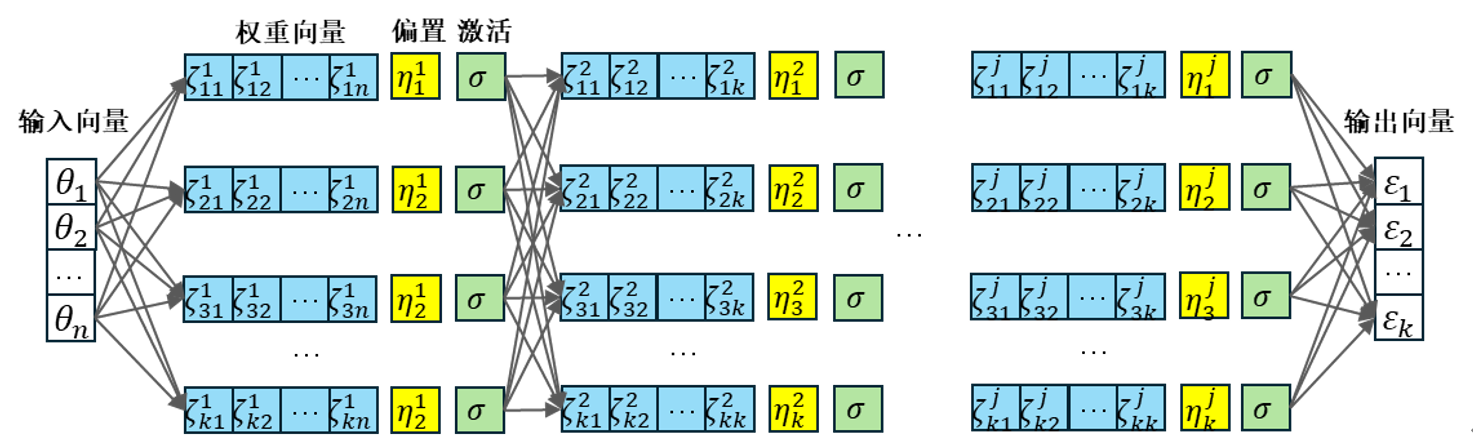
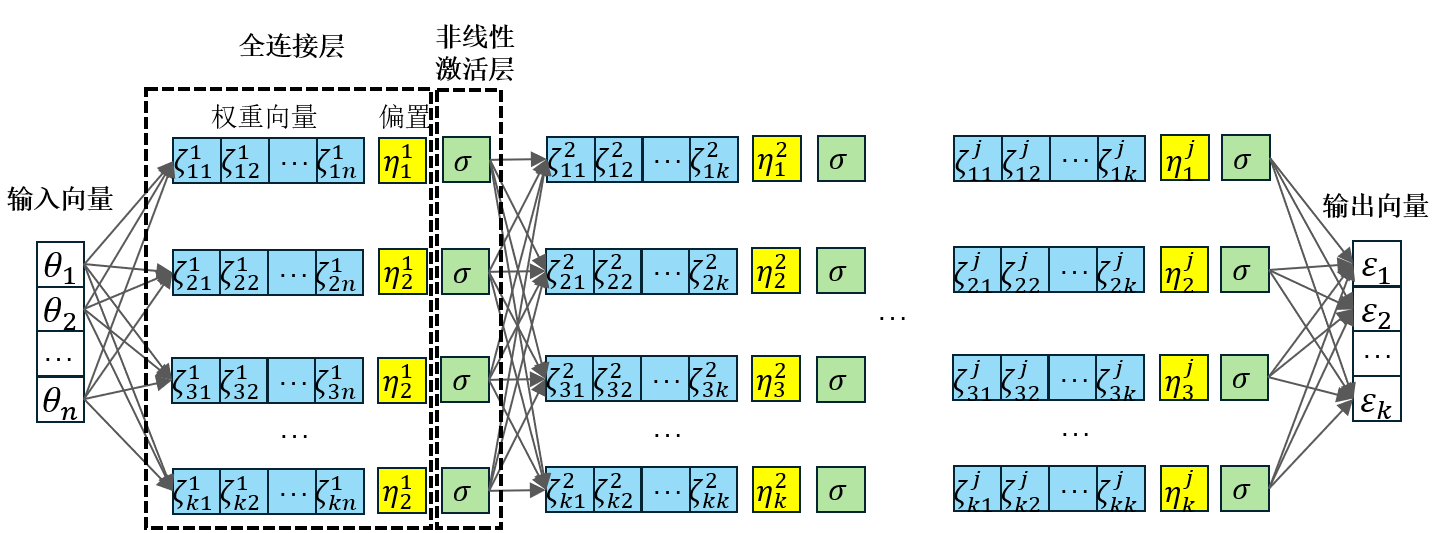
完善了一下全连接神经网络部分的内容

diff --git a/学习笔记/智能流体力学/机器学习.md b/学习笔记/智能流体力学/机器学习.md
@@ -10,11 +10,6 @@
    - 以**数据**为研究对象，是数据驱动的学科
    - 目的是对数据进行预测和分析
    - 是概率论、统计学、信息论、计算理论、最优化理论及计算机科学等多个领域的交叉学科
-3. 关于机器学习的分类：机器学习有三大分支：**监督学习**、**无监督学习**、**强化学习**。
-   - 监督学习是从标注数据中学习预测模型的机器学习问题，本质是**学习输入到输出的映射关系**。主要涉及分类和回归任务，
-   - 无监督学习是从无标注的数据中学习预测模型的机器学习问题，本质是**学习数据中的统计规律或潜在结构**。主要包含聚类任务
-   - 强化学习是智能体在与环境的连续互动中学习最优行为策略的机器学习问题，本质是**学习最优的序列决策**。
-   - 而深度学习本质上是特指使用**深度神经网络**完成机器学习任务的一种学习方法，可以被用在监督学习、无监督学习、强化学习。
 4. 关于机器学习的几大要素
    - 数据
      - 数据集的分类：
@@ -26,22 +21,38 @@
      - **特征空间**、**假设空间**、**特征空间**
      - 关于数据集与真实环境数据的独立同分布
    - 模型
-   - 策略
+   - 策略：指模型学习的准则，衡量模型的好坏、指导模型参数的更新的准则。
+      - 训练策略
+         - 正则化：使用如 L1 或 L2 正则化来限制模型复杂度，通过增额外的惩罚项或约束减少过拟合的风险:
+         - **L1 正则化(Lasso)**：在损失函数中加入权重的绝对值之和，使得模型趋向于产生稀疏的权重矩阵，即很多对目标的影响作用较小的权重值变成 0，进行了特征选择：$$L1_{loss}=\lambda\sum_{i}|w_i|$$
+         - **L2 正则化(Ridge)**：在损失函数中加入权重的平方和，使得权重倾向于减小，但是不至于减小为 0：$$L2_{loss}=\lambda\sum_{i}w_i^2$$
+         - **Dropout**:在训练过程中随机丢弃一部分神经元，即按照一定比例(如 0.5)将一些神经元的输出设为 0，防止神经元之间的共适应性
+        - 交叉验证：使用交叉验证来评估模型在新数据上的表现
+        - 早停：在训练过程中，一旦在验证集上的性能开始下降，即停止训练，以防过拟合
+        - 简化模型结构：减少模型的复杂性，例如减少层数或参数数量，以避免学习过于复杂的模式 
+      - 损失函数
    - 算法
-5. 关于模型性能的有关概念：
+5. 关于机器学习的分类：
+   - 按照范式分类
+      - **监督学习**：从标注数据中学习预测模型的机器学习问题，本质是**学习输入到输出的映射关系**。主要涉及分类和回归任务，
+      - **无监督学习**：从无标注的数据中学习预测模型的机器学习问题，本质是**学习数据中的统计规律或潜在结构**。主要包含聚类任务
+      - **强化学习**：智能体在与环境的连续互动中学习最优行为策略的机器学习问题，本质是**学习最优的序列决策**。
+   - 按照使用的模型分类
+      - **传统机器学习**：使用浅层数学模型。
+      - **深度学习**：使用多层（>=3）人工神经网络模型，可以被用在监督学习、无监督学习、强化学习。
+   - 按照学习方略分类：
+      - **主动学习**：模型主动选择对自己最有价值的样本申请标注。
+      - **迁移学习**：将从一个任务学到的知识迁移到另一个相关任务。
+      - **知识蒸馏**：在同一个任务中将知识从一个大模型蒸馏到小模型
+      - **集成学习**：通过独立训练多个不同的基础模型，再将它们的预测结果以某种方式组合起来，获得比任何单个模型都更高的精度、更好的鲁棒性和更可靠的不确定性估计。
+6. 关于模型性能的有关概念：
    1. 宏观概念：
       1. **泛化能力**：是指机器学习模型对未见过的新数据（即不包含在训练集中的数据）的处理能力，这意味着模型在训练集上学习到了正确的规律，这些规律在新数据上依然有用；
       2. **过拟合**：模型过度学习了训练数据中的特性，包括噪声和非代表性的特征，导致其泛化能力下降，使得其在训练集以外的数据上表现较差；
       3. **如何提高模型的泛化能力**：
       4. **数据增强**：通过增加训练数据的多样性，例如通过旋转、缩放、裁剪或颜色调整来扩展图像数据集
-      5. 正则化：使用如 L1 或 L2 正则化来限制模型复杂度，通过增额外的惩罚项或约束减少过拟合的风险:
-         1. **L1 正则化(Lasso)**：在损失函数中加入权重的绝对值之和，使得模型趋向于产生稀疏的权重矩阵，即很多对目标的影响作用较小的权重值变成 0，进行了特征选择：$$L1_{loss}=\lambda\sum_{i}|w_i|$$
-         2. **L2 正则化(Ridge)**：在损失函数中加入权重的平方和，使得权重倾向于减小，但是不至于减小为 0：$$L2_{loss}=\lambda\sum_{i}w_i^2$$
-         3. **Dropout**:在训练过程中随机丢弃一部分神经元，即按照一定比例(如 0.5)将一些神经元的输出设为 0，防止神经元之间的共适应性
-      6. 交叉验证：使用交叉验证来评估模型在新数据上的表现
-      7. 早停：在训练过程中，一旦在验证集上的性能开始下降，即停止训练，以防过拟合
-      8. 简化模型结构：减少模型的复杂性，例如减少层数或参数数量，以避免学习过于复杂的模式
-      9. 集成方法：如随机森林或梯度提升机等集成学习方法，可以通过组合多个模型来提高泛化能力
+      
+      5. 集成方法：如随机森林或梯度提升机等集成学习方法，可以通过组合多个模型来提高泛化能力
    2. 具体概念和性能图：
       1. 目标分类：
          1. 正类、负类：对于一个二分类模型来说，正类和负类分别就是这两个类别；对于一个多分类；对于一个多分类模型来说，通常有多少个类别，就有多少组正类和负类，正负类是相对单个类来说，比如总共有 1、2、3、4、5 类，当我研究 1 类时，1 是我感兴趣的类，故是正类，2、3、4、5 均是负类
@@ -73,7 +84,7 @@
          2. **P-R 曲线**(精确率-召回率曲线)：
             1. 衡量的是在不同分类阈值下，**精确度**和**召回率**的关系
             2. 曲线面积越大，表示模型在保持高精确度的同时也能保持较高的召回率
-6. 关于**模型性能**的提高方法：
+7. 关于**模型性能**的提高方法：
    1. 模型欠拟合：
       1. 从超参数角度
       2. 从模型结构角度
@@ -84,7 +95,7 @@
          1. 从模型结构角度
             1. 从数据处理角度：
             2. 从损失函数角度
-7. 关于正问题和反问题：
+8. 关于正问题和反问题：
    1. 正问题：已知系统的结构、参数、输入条件，求解系统的输出响应
    2. 反问题：已知系统的输出响应，反推系统的结构、参数、输入条件
 
@@ -185,41 +196,32 @@
    - 数据:处理向量形式的数据。
    - 模型：即前向传播模型
       - **灵感来源**：来自于对人脑神经元工作过程的数学建模，人脑的思维过程依靠的是约860亿个神经元的协同工作，其中每个神经元平均与7000~10000个神经元建立联系，共形成约150万亿个神经连接。具体来说，每个神经元通过树突接受来自其他神经元传递的不同强度的电信号，细胞核将所有信号进行整合处理，输出到轴突末端，与神经元自身的静息电位相加，如果最终的电信号高于输出阈值，就经由轴突末端向其他神经元传递，若低于阈值，则无法传递.![人脑神经元示意图](../../图片/人脑神经元.jpeg)
-      - **数学抽象**：我们可以将上述过程抽象化为如图所示的数学模型：![神经元数学模型](../../图片/神经元数学模型.png) 其中神经元接受的输入分别为$\theta_1$、$\theta_2$、… 、$\theta_n$，权重$\zeta_1$、$\zeta_2$、… 、$\zeta_n$用来模拟各个接受电信号的信号强弱，偏置 $\eta$ 用来模拟神经元自身的静息电位，最终的阈值判断本身具有非线性响应的特点，相应地使用一个非线性函数来完成，即激活函数$\sigma\left(\bullet\right)$，我们可以得到最终的单个神经元响应的数学表达式：$$f(\theta) = \sigma\left( \sum_{i=1}^{n} \left( \theta_i \zeta_i \right) + \eta \right)$$ 我们可以发现，这本质是一种输入到输出的非线性映射，权重和偏置负责仿射变换，只能做出线性相应，但是激活函数的施加给予了神经元拟合非线性函数的能力。我们将输入、偏置参数使用向量形式表示，那么神经元工作的本质就是输入向量列向量$\boldsymbol{\theta}$和权重行向量$\boldsymbol{\zeta}$点积再加上偏置参数$\eta$的过程，即：$$f(\boldsymbol{\theta}) = \sigma\left( \boldsymbol{\zeta} \cdot \boldsymbol{\theta} + \eta \right)$$ 综上，我们可以将每个神经元都看做是一个存储了权重行向量$\boldsymbol{\zeta}$、偏置参数$\eta$以及激活函数$\sigma\left(\bullet\right)$的计算单元。目前所有主流的ANN架构，如全连接、卷积、Transformer等，均以上述的神经元为网络最小单位，只不过输入数据的形状、具体的神经元连接方式或网络架构有所区别。
+      - **数学抽象**：我们可以将上述过程抽象化为如图所示的数学模型：![神经元数学模型](../../图片/神经元数学模型.png)  
+      其中神经元接受的输入分别为$\theta_1$、$\theta_2$、… 、$\theta_n$，权重$\zeta_1$、$\zeta_2$、… 、$\zeta_n$用来模拟各个接受电信号的信号强弱，偏置 $\eta$ 用来模拟神经元自身的静息电位，最终的阈值判断本身具有非线性响应的特点，相应地使用一个非线性函数来完成，即激活函数$\sigma\left(\bullet\right)$，我们可以得到最终的单个神经元响应的数学表达式：$$f(\theta) = \sigma\left( \sum_{i=1}^{n} \left( \theta_i \zeta_i \right) + \eta \right)$$ 我们可以发现，这本质是一种输入到输出的非线性映射，权重和偏置负责仿射变换，只能做出线性相应，但是激活函数的施加给予了神经元拟合非线性函数的能力。我们将输入、偏置参数使用向量形式表示，那么神经元工作的本质就是输入向量列向量$\boldsymbol{\theta}$和权重行向量$\boldsymbol{\zeta}$点积再加上偏置参数$\eta$的过程，即：$$f(\boldsymbol{\theta}) = \sigma\left( \boldsymbol{\zeta} \cdot \boldsymbol{\theta} + \eta \right)$$ 综上，我们可以将每个神经元都看做是一个存储了权重行向量$\boldsymbol{\zeta}$、偏置参数$\eta$以及激活函数$\sigma\left(\bullet\right)$的计算单元。目前所有主流的ANN架构，如全连接、卷积、Transformer等，均以上述的神经元为网络最小单位，只不过输入数据的形状、具体的神经元连接方式或网络架构有所区别。
       - **多神经元组合成前向传播通路**：基于对人脑神经元的数学抽象，我们可以使用多层、每层多个神经元搭建一个前向传播通路。如下图所示：![前向通路示意图](../../图片/前向通路.png) 模型每层的每个神经元均与前一层的所有神经元相连，这也是其名称得来的原因。其包含j层网络，每层网络包含k个神经元，输入是长度为n的列向量$\theta$，输出是长度为k的列向量ε，权重向量则是长度不一的行向量。网络主要由全连接层和非线性激活层组成：
          - **全连接层**：负责实现每个神经元的仿射变换部分，存放每个神经元的权重行向量$\boldsymbol{\zeta}$和偏置参数$\eta$，需要注意的是，为保证向量点积的正常进行，**每一层的输出列向量的长度为这一层的神经元个数，每层每个神经元的权重向量的长度都与输入列向量的长度相等**。
          - **非线性激活层**：负责实现每个神经元的非线性变换部分。
-            - 全连接层只能仿射变换拟合线性函数，即满足$f(ax+by)=af(x)+bf(y)$的函数，函数图像本身为直线，线性函数无论增加多少次仿射变换，都只能得到线性函数，所以我们需要对全连接层的输出进行非线性变换。我们将非线性激活层中的作用函数称为激活函数$\sigma\left(\bullet\right)$，其作用方式主要有两种：一种是**多层嵌套**：$output = \sigma(w2 * \sigma(w1 * x + b1) + b2)$,这种作用形式可以创造出单尖点的非线性函数，但是显然远远不够，在卷积核中运行内积算法时所以在全连接层中，会出现将这一层中所有神经元输出相加的过程，由于每个神经元的输出与最初的输入都是一个非线性关系，所有非线性函数在这一层**相互叠加**，即出现了 $\sigma(w1*x + b1) + \sigma(w2*x + b2)+……$ 的现象，而这样的相加则直接产生尖点无限多的复杂非线性函数，完全达到拟合所有非线性函数的效果，每个神经元的输出都要套上一个 $\sigma$ 激活函数，以最大程度提高其非线性函数的拟合度。如果非线性函数在正负无穷初梯度(可理解为导数)为 0 被称为**饱和函数**，如果同时梯度最大值较小，则在反向传播过程中会导致梯度消失，如果非线性激活函数是**非零均值函数**，即输出值的期望不为 0，则会导致学习过程中所有参数符号始终一致，使得神经网络不易收敛
+            - 全连接层只能仿射变换拟合线性函数，即满足$f(ax+by)=af(x)+bf(y)$的函数，函数图像本身为直线，线性函数无论增加多少次仿射变换，都只能得到线性函数，所以我们需要对全连接层的输出进行非线性变换。我们将非线性激活层中的作用函数称为激活函数$\sigma\left(\bullet\right)$，其作用方式主要有两种：一种是**多层嵌套**：$output = \sigma(w2 * \sigma(w1 * x + b1) + b2)$,这种作用形式可以创造出单尖点的非线性函数，但是显然远远不够，在卷积核中运行内积算法时所以在全连接层中，会出现将这一层中所有神经元输出相加的过程，由于每个神经元的输出与最初的输入都是一个非线性关系，所有非线性函数在这一层**相互叠加**，即出现了 $\sigma(w1*x + b1) + \sigma(w2*x + b2)+……$ 的现象，而这样的相加则直接产生尖点无限多的复杂非线性函数，完全达到拟合所有非线性函数的效果，每个神经元的输出都要套上一个 $\sigma$ 激活函数，以最大程度提高其非线性函数的拟合度。如果非线性函数在正负无穷初梯度(可理解为导数)为 0 被称为**饱和函数**，如果同时梯度最大值较小，则在反向传播过程中会导致梯度消失，如果非线性激活函数是**非零均值函数**，即输出值的期望不为 0，则会导致学习过程中所有参数符号始终一致，使得神经网络不易收敛。
             - **ReLU 函数(线性修正单元)**：
                - 公式: $$ReLU = max(0,x)$$
-               - 其中当输入为 x<=0 时，输出为 0，当输入为 x>0 时，输出为 x，这样对卷积后的特征图中的每一个特征值进行处理，
+               - 其中当输入为 x<=0 时，输出为 0，当输入为 x>0 时，输出为 x。
                - 优势：非饱和函数，输入值大于零时梯度恒为 1，解决回传梯度消失问题；同时函数简单，收敛较快，这一点也使得 Relu 函数称为卷积网络中使用最多的激活函数
                - 缺点：神经元死亡：当输入值小于 0 时，梯度为 0；非零均值函数：影响收敛效果，可使用归一化解决；梯度爆炸：没有上界，梯度随计算累积至超过计算机数值上限，可使用参数初始化解决
             - **LeakyReLU 函数**：
-               - $$
-                f(x) = \begin{cases}
-                x & \text{if} x > 0 \\
-                ax & \text{if} x \leq 0
-                \end{cases}
-                $$
+               - $$f(x) = \begin{cases} x & x > 0 \\ ax & x \leq 0 \end{cases}$$
                - 其中a是一个很小的数，但不变
                - 优势：具备ReLU的优点，，同时减轻神经元死亡的的问题
                - 缺点：a是一个超参数，不能通过学习改变，但是对训练结果相当重要，使得影响训练结果的不确定因素增加
            - **Prarametic ReLU 函数**
-              - $$
-                f(x) = \begin{cases}
-                x & \text{if} x > 0 \\
-                ax & \text{if} x \leq 0
-                \end{cases}
-                $$
-                - 其中a可以随着学习过程改变
-              - 优势：集合了LeakyReLU和ReLU的优势
-              - 缺点：增加模型复杂度与过拟合化风险
+               - $$f(x) = \begin{cases} x & \text{if } x > 0 \\ ax & \text{if } x \leq 0 \end{cases}$$
+               - 其中a可以随着学习过程改变
+               - 优势：集合了LeakyReLU和ReLU的优势
+               - 缺点：增加模型复杂度与过拟合化风险
            - **sigmoid 函数**：
-              - 公式：$$f(x)=\frac{1}{1+e^{-x}}$$
-                - 输出值在 0 到 1 之间
-              - 优势：可以直接表示概率，输出是一个平滑的概率分布
-              - 缺点：饱和函数：导致梯度消失；非零均值函数：导致不易收敛
+               - 公式：$$f(x)=\frac{1}{1+e^{-x}}$$
+               - 输出值在 0 到 1 之间
+               - 优势：可以直接表示概率，输出是一个平滑的概率分布
+               - 缺点：饱和函数：导致梯度消失；非零均值函数：导致不易收敛
            - **SiLU 函数**：
               - 公式：$$SiLU=x*\frac{1}{1+e^{-x}}$$
               - 将特征值和经过 sigmoid 函数之后得到的值相乘来引入非线性，非常类似**特征重塑**操作，给与激活函数动态调整特征值所占权重的能力
@@ -227,52 +229,53 @@
               - 公式：$$f(x)=\frac{e^x - e^{-x}}{e^x + e^{-x}}$$
               - 优点：零均值函数：输出值以 0 为中心，使得权重更新时不会偏向任一方，梯度有正有负，有利于改善梯度流
               - 缺点：饱和函数：当输入值的绝对值非常大时，仍然有梯度消失问题
-   - 策略：即损失函数，衡量预测值和真实值之间差异情况。
+   - **策略**：即损失函数
+      - 模型的优化需要有明确的方向，而损失函数就是负责使得模型朝着输出值的分布越来越接近真值的分布，损失函数的值反映了模型当前的输出值和真值之间的差距。具体来说，损失函数是关于网络输出向量$\boldsymbol{\varepsilon}$、真值向量$\boldsymbol{\varepsilon_t}$的函数：$$\mathcal{J} = f(\boldsymbol{\varepsilon}, \boldsymbol{\varepsilon_t})$$
       - **最小绝对误差(MAE损失)(L1 损失):**
-         - 公式：$$L1=\sum_{i=1}^n |Y_i-\hat{Y_i}|$$
+         - 公式：$$L1=\frac{1}{n}\sum_{i=1}^n |\varepsilon_i-\varepsilon_{ti}|$$
+         - 其中$\varepsilon_i$表示模型的输出值，$\varepsilon_ti$表示模型的真值，n表示样本数。
          - 特点：对所有大小的误差都给予相同的权重，对异常值不敏感
       - **均方误差(MSE 损失函数)(L2 损失)：**
          - 通常用于回归问题，或者一些需要预测连续值的问题，如图像重建和超分辨率问题
-         - 公式：$$MSE=\frac{1}{n}\sum\limits_{i=1}^n(Y_i-\hat{Y_i})^2$$
+         - 公式：$$MSE=\frac{1}{n}\sum\limits_{i=1}^n(\varepsilon_i-\varepsilon_{ti})^2$$
          - 特点：因为对损失值加平方，所以对更大的误差赋予更大的损失，意味着模型更加倾向于避免大的误差，对异常值更敏感
       - **交叉熵损失（CE 损失函数）**
          - 此损失函数主要用于目标分类问题，拟合的目标结果在于让交叉熵损失函数取得最小值，即让样本属于其真实类的概率最大，在二分类和多分类问题中，使用 one-hot 编码来表示每个样本的真实标签，例如，如果有一个四分类问题，类别为 {A, B, C, D}，那么类别 A 可以被编码为 [1, 0, 0, 0]，类别 B 可以被编码为 [0, 1, 0, 0]，以此类推
          - **二分类问题：**
-            - $$CE=-\frac{1}{n}\sum\limits_{i=1}^{n}[Y_iln(\hat{Y_i})+(1-Y_i)ln(1-\hat{Y_i})]$$
-            - $Y_i$ 表示第 i 个样品是不是于这个类，是为 1，不是为 0，$\hat{Y_i}$ 表示属于这个类的预测概率
+            - $$CE=-\frac{1}{n}\sum\limits_{i=1}^{n}[\varepsilon_{ti}ln(\varepsilon_i)+(1-\varepsilon_{ti})ln(1-\varepsilon_i)]$$
+            - $\varepsilon_{ti}$ 表示第 i 个样品是不是于这个类，是为 1，不是为 0，$\varepsilon_{i}$ 表示属于这个类的预测概率
             - 二元交叉熵函数前通常跟 sigmoid 函数，来将类别分数转化为 0~1 之间的概率
             - 二元交叉熵函数同样能用来处理多类别分类问题，即，将一个 N 类分类问题视作 N 个二分类问题，在每一个类别的判断中都使用一个二元交叉熵损失函数，这样每个类别的概率互不影响，意味着可以做对一个目标的多分类问题，即，一个目标可以同时属于很多个类别。
          - **多分类问题：**
-            - $$CE=-\frac{1}{n}\sum_{i=1}^{n}\sum_{j=1}^{K}Y_{ij}\ln(\hat{Y_{ij}})$$
-            - $Y_{ij}$ 是第 i 个样品标签中属于第 j 类的编码，是第 j 类就是 1，不是就是 0；$\hat{Y_{ij}}$ 是第 i 个样品的第 j 类的预测概率，由**Softmax 函数输出的 Z 向量**(牛逼)得出，K 是类别数量，n 是样本数
+            - $$CE=-\frac{1}{n}\sum_{i=1}^{n}\sum_{j=1}^{K}\varepsilon_{tij}\ln(\varepsilon_{ij})$$
+            - $\varepsilon_{tij}$ 是第 i 个样品标签中属于第 j 类的编码，是第 j 类就是 1，不是就是 0；$\varepsilon_{ij}$ 是第 i 个样品的第 j 类的预测概率，由**Softmax 函数输出的 Z 向量**(牛逼)得出，K 是类别数量，n 是样本数
             - 注意这里的样本数 n 表示，对于输入层输入的是很多张图片、甚至是不同类图片的情况（一个 batch），最后的损失值是将的所有图片的损失值进行求和
             - 注意：多元交叉熵损失函数只适用于对一个类别进行预测，他假设每个样本或检测框只属于一个类别。原因是多元交叉熵函数之前通常会搭配 softmax 函数，这意味着一个类别的分数会影响到其他所有类别的分数，所以各个类别的判断之间并不互相独立，所以不能用来对一个目标做多类别预测。
-   - 算法：即反向传播算法和梯度下降算法
+   - **算法**：即反向传播算法和梯度下降算法 
+      - 在得到损失值之后，模型确定了优化的方向，接下来需要对所有网络可更新的参数来具体执行这样的优化，从而使得损失函数的值下降，如此循环，直到模型的输出与真值足够接近。具体来说，模型的损失函数又可以看成是输入向量、权重向量、偏置参数、真值向量的函数：$$\mathcal{J} = f(\boldsymbol{\theta},\boldsymbol{\zeta},\eta,\boldsymbol{\varepsilon_t})$$ 显然，如果想使得损失值减小，只能从权重向量和偏置参数着手，这里可以把损失函数看做是关于$\boldsymbol{\zeta}$、$\eta$的多元函数，对于多元函数来说，负梯度方向是函数值减小最快的方向，为了让损失函数值以最快速度下降，应当让所有权重和偏置参数沿着各自负梯度方向减小。 所以接下来的工作就变成首先获取损失函数关于每个参数的梯度值（即反向传播），然后使用这个梯度值配合一定的算法对每个参数进行更新（梯度下降）。为了便于理解反向传播和梯度下降的具体过程，这里将钱箱传播的模型进行简化，如图所示：![简化全连接](../../图片/简化全连接.png)  
+      其输入是单个变量$\theta$，具有两层、每层一个神经元。
       - 反向传播算法：(BP 算法)
-         - 概念：神经网络中加速计算参数梯度值的方法
          - 一般的计算各个参数梯度值的方法：
-            - **前向传播过程**$$x >>> (w_1,b_1)>>>\sigma_1>>>y_1=\sigma_1(w_1x+b_1)>>>(w_2,b_2)>>>\sigma_2>>>y_2=\sigma_2(w_2y_1+b_2)>>>L(y_2,y_{gt})$$
-               - 其中，$(w_1,b_1)$、$(w_2,b_2)$ 分别是前后两次线性运算的参数，$\sigma_1$、$\sigma_2$ 为激活函数，最后损失函数$L(y_2,y_{gt})$ 中 $y_{gt}$ 是真实值，$y$是计算值
-            - **自动微分机制(Autograd)**：将损失函数$L(y_2,y_{gt})$ 当中可能出现的输出量关于输入量的导数转化为关于权重参数和偏置参数的函数，为反向传播做准备。
-               - $$\frac{∂y_2}{∂x}=\frac{∂y_2}{∂y_1}\frac{∂y_1}{∂x}=\sigma_1'\sigma_2'{w_1}{w_2}$$ 
-               - $$\frac{∂^{2}y_2}{∂x^{2}}=\frac{∂(\frac{∂y_2}{∂x})}{∂x}=\frac{∂(\sigma_1'\sigma_2'{w_1}{w_2})}{∂x}={w_1}{w_2}\frac{∂(\sigma_1'\sigma_2')}{∂x}={w_1}{w_2}[\frac{∂(\sigma_2')}{∂x}\sigma_1'+\frac{∂(\sigma_1')}{∂x}\sigma_2']={w_1}{w_2}[(\sigma_2''{w_2}\sigma_1'{w_1})\sigma_1'+(\sigma_1''{w_1})\sigma_2']={w_1}^2{w_2}^2{\sigma_1'}^2{\sigma_2''}+{w_1}^2{w_2}{\sigma_1''}{\sigma_2'}$$
-               - $\frac{∂^{3}y_2}{∂x^{3}}$ 等更高阶导数类似
+            - **前向传播过程**$$\theta >>> (\zeta_1,\eta_1)>>>\sigma_1>>>\varepsilon_1=\sigma_1(\zeta_1\theta+\eta_1)>>>(\zeta_2,\eta_2)>>>\sigma_2>>>\varepsilon_2=\sigma_2(\zeta_2\varepsilon_1+\eta_2)>>>\mathcal{J} = f(\varepsilon_2, \varepsilon_t)$$
+               - 其中，$(\zeta_1,\eta_1)$、$(\zeta_2,\eta_2)$ 分别是前后两次线性运算的参数，$\sigma_1$、$\sigma_2$ 为激活函数，最后损失函数$\mathcal{J}(\varepsilon_2, \varepsilon_t)$ 中 $\varepsilon_t$ 是真实值，$\varepsilon_2$是模型输出值。
             - **反向传播过程**：本质是计算损失函数相对于网络的各个权重参数、偏置参数的偏导数。
                - $$\frac{∂L}{∂b_1}=\frac{∂L}{∂y_2}\frac{∂y_2}{∂y_1}\frac{∂y_1}{∂b_1}=\frac{∂L}{∂y_2}w_2<<<\frac{∂L}{∂w_1}=\frac{∂L}{∂y_2}\frac{∂y_2}{∂y_1}\frac{∂y_1}
                {∂w_1}=\frac{∂L}{∂y_2}w_2x<<<\frac{∂L}{∂b_2}=\frac{∂L}{∂y_2}\frac{∂y_2}{∂b_2}=\frac{∂L}{∂y_2}<<<\frac{∂L}{∂w_2}=\frac{∂L}{∂y_2}\frac{∂y_2}{∂w_2}=\frac{∂L}{∂y_2}y_1$$
                - 其中每一步需要的量都由前向传播过程已知或由上一步已知
-          3. 计算机中模块化加速计算梯度值方法
+         - 计算机中模块化加速计算梯度值方法
             - **前向传播过程**$$(x,w_1)>>>u_1=w_1x>>>(u_1,b_1)>>>y_1=u_1+b_1>>>(w_2,y_1)>>>u_2=w_2y_1>>>(u_2,b_2)>>y_2=u_2+b_2>>>L(y_2,y_{gt})$$
                - 其中与一般计算不同的是这其中引入了单元运算概念，即将所有复杂运算拆解成一个个的简单、步骤高度重合、只是数值发生改变的运算，这样就可以将正向传播和反向传播过程用程序来实现
-            - **反向传播过程**$$\frac{∂L}{∂w_1}=\frac{∂L}{∂y_2}\frac{∂y_2}{∂u_2}\frac{∂u_2}{∂y_1}\frac{∂y_1}{∂u_1}\frac{∂u_1}{∂w_1}=\frac{∂L}{∂y_2}w_2x<<<\frac{∂L}{∂b_1}=\frac{∂L}{∂y_2}\frac{∂y_2}{∂u_2}\frac{∂u_2}{∂y_1}\frac{∂y_1}{∂b_1}=\frac{∂L}{∂y_2}w_2<<<\frac{∂L}{∂w_2}=\frac{∂L}{∂y_2}\frac{∂y_2}{∂u_2}\frac{∂u_2}{∂w_2}=\frac{∂L}{∂y_2}y_1<<<\frac{∂L}{∂b_2}=\frac{∂L}{∂y_2}\frac{∂y_2}{∂b_2}=\frac{∂L}{∂y_2}$$
-               - 其中每一步需要的量都由前向传播过程已知或由上一步已知
-            - 计算机模块化和计算方法深度学习框架相配合，在每个单元运算中均有定义的正向传播和反向传播函数，给每个神经元之间创造了联系通路，神经元拥有了生命。
+            - **反向传播过程** $$\frac{∂L}{∂w_1}=\frac{∂L}{∂y_2}\frac{∂y_2}{∂u_2}\frac{∂u_2}{∂y_1}\frac{∂y_1}{∂u_1}\frac{∂u_1}{∂w_1}=\frac{∂L}{∂y_2}w_2x<<<\frac{∂L}{∂b_1}=\frac{∂L}{∂y_2}\frac{∂y_2}{∂u_2}\frac{∂u_2}{∂y_1}\frac{∂y_1}{∂b_1}=\frac{∂L}{∂y_2}w_2<<<\frac{∂L}{∂w_2}=\frac{∂L}{∂y_2}\frac{∂y_2}{∂u_2}\frac{∂u_2}{∂w_2}=\frac{∂L}{∂y_2}y_1<<<\frac{∂L}{∂b_2}=\frac{∂L}{∂y_2}\frac{∂y_2}{∂b_2}=\frac{∂L}{∂y_2}$$
+              - 其中每一步需要的量都由前向传播过程已知或由上一步已知
+              - 计算机模块化和计算方法深度学习框架相配合，在每个单元运算中均有定义的正向传播和反向传播函数，给每个神经元之间创造了联系通路，神经元拥有了生命。
+         - **自动微分机制(Autograd)**：将损失函数$L(y_2,y_{gt})$ 当中可能出现的输出量关于输入量的导数转化为关于权重参数和偏置参数的函数，为反向传播做准备。
+            - $$\frac{∂y_2}{∂x}=\frac{∂y_2}{∂y_1}\frac{∂y_1}{∂x}=\sigma_1'\sigma_2'{w_1}{w_2}$$ 
+            - $$\frac{∂^{2}y_2}{∂x^{2}}=\frac{∂(\frac{∂y_2}{∂x})}{∂x}=\frac{∂(\sigma_1'\sigma_2'{w_1}{w_2})}{∂x}={w_1}{w_2}\frac{∂(\sigma_1'\sigma_2')}{∂x}={w_1}{w_2}[\frac{∂(\sigma_2')}{∂x}\sigma_1'+\frac{∂(\sigma_1')}{∂x}\sigma_2']={w_1}{w_2}[(\sigma_2''{w_2}\sigma_1'{w_1})\sigma_1'+(\sigma_1''{w_1})\sigma_2']={w_1}^2{w_2}^2{\sigma_1'}^2{\sigma_2''}+{w_1}^2{w_2}{\sigma_1''}{\sigma_2'}$$
+            - $\frac{∂^{3}y_2}{∂x^{3}}$ 等更高阶导数类似
       - 梯度下降算法：
-         - 为什么会需要这种算法：
-            - 模型训练的过程其实就是网络自行拟合原函数的过程，用众多个样本点作为实际值，每一层卷积核中所进行的仿射变换加上非线性激活层的非线性变换，到最后的全连接层时就会出来一个非线性拟合函数，用损失函数通过计算当前拟合的值和每个样本点的实际值之差等手段，衡量当前所拟合函数的质量。神经网络的目的，就是在原始数据集的每一轮训练后不断改变每个卷积核中权重和偏置这两个参数，得到一组最优的参数使得最后的损失函数的值最小，即拟合的效果最佳，而梯度下降算法就是让权重和偏置参数能够朝着让损失函数值变小的方向改变的一种手段。
+         - 
          - 梯度下降算法：
             - 概念：
-               - 对于非线性函数 $y=f(x,w,b)$ ,其中 w、b 分别是权重和偏置，在此处共同影响函数走势，神经网络的目的就是通过学习获得一组最优的 w、b 值，使得损失函数取得最小值，而对于损失函数 $L(w,b)$来说，其有两个自变量 w，b，是一个空间中的二元函数，对于多元函数来说，**负梯度方向**是函数值减小最快的方向，为了让损失函数值以最快速度下降，应当让 w、b 沿着各自负梯度方向减小，所以每次得出损失函数之后应当按照负梯度方向更新 w、b,其中二元函数的梯度向量可以表示为：$∇L = [\frac{∂L}{∂w}, \frac{∂L}{∂b}]$ ，$L()$ 关于 w、b 的的梯度分别是 $\frac{∂L}{∂w}$、$\frac{∂L}{∂b}$ ,以下均用 $g$ 表示。
             - 公式：
                - $$w = w - α * g$$
                - $$b = b - α * g$$
@@ -311,7 +314,7 @@
                             - $r$ ：同样是二阶矩，代表了梯度随时间积累的量
                           - 优点：其中相较于 Adagrad 算法优势体现在加入了可以手动调节的$\rho$，通过不断减小过去数据在总二阶矩中所占权重，可以解决后期二阶矩不断增大导致的学习率过小的问题
                           - 不足：$r$ 初值过小，
-                    3. 同时从梯度角度和学习率角度：
+                    1. 同时从梯度角度和学习率角度：
                        - **Adam 算法**
                          - 公式：
                            - $$s=\rho _1s+(1-\rho _1)g$$
@@ -323,14 +326,12 @@
                            - $s$ 是自适应动量，或者说是一阶矩，继承自动量随机梯度下降算法；$r$ 是引入的梯度随时间积累的量，即二阶矩继承自 Adagrad 算法；$\rho_1$、$\rho_2$ 是衰减率，继承自 RMSprop 算法；$\hat s$、$\hat r$ 分别是 $s$ 和$r$ 随迭代过程的修正值
                            - $\rho_1$、$\rho_2$ 衰减率一般设置为 0.9 或 0.99，这表明二阶矩中越新的数据所占权重越大，因为新数据权重始终为(1-$\rho$),但是所有的老数据的权重随数据更新在逐渐减小
                            - 之所以创建$\hat s$、$\hat r$,是因为$s$、$r$ 初值较小，接近于 0，不能使用，但是后续两值会回归正常，使用公式则可以将初期的$s$、$r$ 放大，之后随着数据的更新，迭代的进行，分母中的$1-{\rho}^t$ 将逐渐接近于 1，即，后期$\hat s$、$\hat r$ 将逐渐等于于$s$、$r$，而此时$s$、$r$的值也随着一阶、二阶矩的积累过程回归正常。
-        
 2. **CNN**卷积网络
-   - 数据：
    - 模型 ：**输入层** >>> **卷积层** >>>**批量归一化层**>>>**非线性激活层**>>> **池化层** >>>**展平层** >>**全连接层**
-     1. **输入层** ：输入四维张量，即(**批次数，通道数，图像高度，图像宽度**)(灰度只有一个通道，RGB 图有三个通道)
+      1. **输入层** ：输入四维张量，即(**批次数，通道数，图像高度，图像宽度**)(灰度只有一个通道，RGB 图有三个通道)
         - 输入层的图片大小必须统一，例如 yolov5 默认的输入图片大小是 640*640，如果遇到大小不相同的情况，则会先按照长宽比进行缩放，使得短边长度等于 640，然后再对图片空白区域进行填充，一般填充黑色，这中处理方案的好处在于保持原始图片的长宽比，不会使得图像被拉伸变形
         - 输入层通常是一个 batch，即一个批次，包含很多张图片甚至很多个类别的图片，但是这些图片是**分别、独立**进入后面的所有层，而不是同时进入，所有图片的汇总发生在损失函数计算时的每个图片损失值的求和
-     2. **卷积层** ：目的是对图像各个区域进行特征提取，最后得到一个或多个**特征图**
+      2. **卷积层** ：目的是对图像各个区域进行特征提取，最后得到一个或多个**特征图**
         - 对于输入层的图像，利用**卷积核**滑动提取特征，且每个通道分别进卷积核，每个区域最后只对应一个特征值，卷积核的每次整体的卷积操作都对应着一个神经元，将一次卷积的所有仿射变换相加再输出就对应了一个神经元的操作，故**卷积核工作了多少次就对应了多少个神经元**，但是由于卷积层在神经元之间**共享参数**，所以一个卷积核代表了很多个神经元。
         - 卷积核:
           1. 卷积核主要依赖**权重矩阵**和**偏置项**工作
@@ -352,23 +353,19 @@
           - FH:卷积核的长度或宽度
           - P:边缘厚度
           - S:步长
-     3. **批量归一化层(BatchNorm)**：目的是使得每一层的输入都有一个相似分布的输入，防止一次正向传播和反向传播之后，参数更新使得靠近输出层的区域神经元的输入因为之前所有神经元所有输出抖动的累积发生剧烈抖动，导致损失函数难以收敛
+      1. **批量归一化层(BatchNorm)**：目的是使得每一层的输入都有一个相似分布的输入，防止一次正向传播和反向传播之后，参数更新使得靠近输出层的区域神经元的输入因为之前所有神经元所有输出抖动的累积发生剧烈抖动，导致损失函数难以收敛
         1. 实现过程：
            1. 对于此批次所有样本(形状为[N,C,H,W])的同一个**通道**，计算这些通道内所有特征值的均值：$$\mu =\frac{1}{H\times W \times N}\sum \limits_{i=1}^{H\times W \times N}x_i$$ 其中$x_i$是每个特征值
            2. 然后计算这些数值的方差：$$\sigma^2=\frac{1}{H\times W \times N}\sum\limits_{i=1}^{H\times W \times N}(x_i-\mu)^2$$
            3. 然后对每个$x_i$元素标准化：$${x_i}^{'}=\frac{x_i-\mu}{\sqrt{\sigma^2+\delta}}$$ 其中$\delta$是无穷小量，防止分母变成 0
            4. 然后对每个${x_i}^{'}$进行缩放、偏移操作: $$y_i= \gamma*{x_i}^{'}+\beta$$ 其中$\gamma$：缩放参数、$\beta$：偏移参数 是可学习参数
         2. 批量归一化本质上是对数据进行了**标准化操作**，即，将原始数据分布转化为**均值为0，标准差为1的的标准正态分布**，计算一次均值和方差实际上是使用了一整个批次(顾名思义)中**所有样本的同一通道**中的所有特征值，这样其实并没有将多个样本的信息混合在一起，因为批量归一化操作只是通过对其进行线性变换改变分布，并不会改变数据之间的相对关系，数据的**模式**和**结构**仍然保留。而且之后的缩放偏移又赋予了网络恢复数据特征的能力。
-     4. **池化层** ：目的是将来自于卷积层的特征图压缩(不含任何矩阵运算)
+      2. **池化层** ：目的是将来自于卷积层的特征图压缩(不含任何矩阵运算)
         - **最大池化**：只取所选区域中最大的特征值，特征值越大说明网络认为这个地方的特征越重要（只关注是否有，不关注哪里有）
         - **平均池化**：将所选区域的所有特征值求平均，作为新的特征值，此方法被证明显著弱于最大池化的效果
-     5. **展平层**：目的是将池化层输出的多维张量转变为全连接层输入需要的一维向量
+      3. **展平层**：目的是将池化层输出的多维张量转变为全连接层输入需要的一维向量
         1. 在一般的卷积神经网络中此过程只是简单的将多维张量中的特征值重新排列成列向量，并不涉及参数学习和数值的改变
-     6. **全连接层（FC）**：(分类任务网络)目的：使用 Softmax 函数得出样本属于每个类别的概率
-        1. **全连接层中的前几层神经元**：
-           1. 池化层的输出特征图经过展平层从多维张量变成了一维行向量，每一层中的每个神经元就是一个一维列向量，存放权重系数，同一层中所有神经元的权重向量合在一起组成了权重系数矩阵，同时还有一个偏置行向量，存放偏置的值，全连接层的仿射变换过程就是**全部神经元权重系数列向量组成的矩阵和输入的特征值行向量进行矩阵乘法(拆开来看其实就是特征值行向量和权重参数列向量的内积)，再将结果行向量与偏置行向量相加($y=kx+b$)。**仿射变换的结果是得到一个行向量(基本的矩阵乘法知识)，作为下一层全连接神经元的输入，以此类推。需要注意：**每个神经元的权重系数列向量长度需保证与这一层输入的行向量长度相等；该层内神经元总个数对应了该全连接层的输出的行向量的长度**
-           2. 经过仿射变换得到的列向量还要经过一层激活函数，通过激活函数**嵌套**增强非线性拟合能力，同时内积的方式也做到了通过**叠加**的方式将多个简单非线性函数组合成复杂非线性函数，很类似于卷积层中实际进行的操作
-           3. 不难发现，全连接层中的每一个神经元都与上一层中所有神经元输出均相连，而与此不同的是卷积层中神经元均与上层中的部分神经元相连，全连接层因此得名。
+      4. **全连接层**
         2. **全连接层中的最后一层神经元**：
            1. 在分类问题中，softmax 函数的输入需要是一个长度与类别数相等的向量，其中向量中的每一项都表示原图像经过一系列操作后的对于每个类别的得分，所以最后一层神经元的个数必须等于总类别数，这样才能保证这一层输出的行向量长度等于类总数，以提供给 Softmax 函数作为数据源。
            2. 不难发现，对于全连接层最后一层中的每个神经元，其实都是对之前的所有网络结构中的所有非线性拟合的一个汇总，之前过程中所有的仿射变换、激活函数嵌套、激活函数叠加，均汇总到了最后一层的每个神经元上，因此这里代表每个类别的每个神经元的输出都是最后每个类别的拟合结果。
@@ -379,9 +376,7 @@
               - 原向量 Z 每一项包含每个类别得分，经过 Softmax 函数之后新向量 Z 中每一项表示每个类别概率值，即置信度，K 是向量 Z 的长度，即类别的数量
            3. Softmax 函数通常用于神经网络的输出层(多数情况是全连接层)，特别是在处理多分类问题时。Softmax 函数可以将一组实数转换为**概率分布**，使得每一个数都在 0 到 1 之间，并且所有数的和为 1。这样，每个数就可以被解释为属于某个类别的概率，最后这个包含该物体对每个类别分别概率的向量被传入交叉熵损失函数(分类问题),至此打通所有前向传播，后续开始反向传播和梯度下降
            4. 卷积分类任务训练的目的，就是将该样本对应于其实际类别的得分在其对于所有类别的得分中的占比提到最大，也就是使 Softmax 概率预测函数得出的概率提到 100%。
-   - CNN 核心算法：
-        
-        1. 神经网络训练的过程，其实就是**前向传播计算数值**>>>**反向传播算法获取梯度**>>>**梯度下降算法更新参数**
+
    - CNN应用领域：
      1. 目标分类：
         1. **LeNet**：1998 年由**Yann LeCun(杨立昆)** 等人提出，定义了CNN卷积层、池化层、全连接层的基本结构，是CNN的鼻祖
@@ -736,6 +731,11 @@
      - **n 步状态转移矩阵的确定**：首先将马尔可夫链$\{X_t,t=0,1,2,\ldots,n\}$的 $n+m$步的状态转移概率矩阵写出来$$\mathbf{P}(n+m) = \begin{bmatrix}P_{11}(n+m) & P_{12}(n+m) & \cdots & P_{1n}(n+m) \\ P_{21}(n+m) & P_{22}(n+m) & \cdots & P_{2n}(n+m) \\ \vdots & \vdots & \ddots & \vdots \\ P_{n1}(n+m) & P_{n2}(n+m) & \cdots & P_{nn}(n+m) \end{bmatrix}$$再看$n$步转移概率矩阵：$$\mathbf{P}(n) = \begin{bmatrix}P_{11}(n) & P_{12}(n) & \cdots & P_{1n}(n) \\ P_{21}(n) & P_{22}(n) & \cdots & P_{2n}(n) \\ \vdots & \vdots & \ddots & \vdots \\ P_{n1}(n) & P_{n2}(n) & \cdots & P_{nn}(n) \end{bmatrix}$$ $m$步转移概率矩阵：$$\mathbf{P}(m) = \begin{bmatrix}P_{11}(m) & P_{12}(m) & \cdots & P_{1n}(m) \\ P_{21}(m) & P_{22}(m) & \cdots & P_{2n}(m) \\ \vdots & \vdots & \ddots & \vdots \\ P_{n1}(m) & P_{n2}(m) & \cdots & P_{nn}(m) \end{bmatrix}$$这里引入**柯尔莫戈洛夫-切普曼方程**：$$p_{ij}(n+m)=	\sum_{k=0}^{\infty}p_{ik}(n)p_{kj}(m),\qquad i,j=0,1,2,\ldots$$我们注意到，$\sum_{k=0}^{\infty}p_{ik}(n)p_{kj}(m)$ 刚好是$P(n)$矩阵中的$i$行与$P(n)$矩阵中的$j$列的元素逐个相乘再相加，而$p_{ij}(n+m)$刚好是$P(n+m)$矩阵中$i$行$j$列元素，故得：$$\mathbf{P}(n+m)=\mathbf{P}(n)\mathbf{P}(m)$$递推可得：$$\mathbf{P}(n)=\mathbf{P}\mathbf{P}(n-1)=\mathbf{P}^2\mathbf{P}(n-2)=\cdots=\mathbf{P}^n$$故得：**时齐马尔可夫链的 n 步状态转移矩阵是一步状态转移概率矩阵的 n 次方**
      - **马尔可夫链的有限维分布**：首先观察一维马尔可夫链分布：设马尔可夫链$\{X_t,t=0,1,2,\ldots,n\}$的状态空间为$I$,表示自然数集合，则记$$p_{j}(0)=P\{X_0=j\},\qquad j\in I$$称为$X_t$的初始分布，使用行向量表示为$$\mathbf{p}(0)=(p_0(0),p_1(0),p_2(0),\ldots,p_j(0))$$  $X_t$在任一时刻$n$的一维分布为$$p_{j}(n)=P\{X_n=j\},\qquad j\in I$$使用行向量表示为布为$$\mathbf{p}(n)=(p_0(n),p_1(n),\ldots,p_j(n),\ldots)$$作为概率分布，$X_t$应当满足:$$\sum_{j=0}^\infty p_j(n)=1$$又有$$P\{X_n=j\}=P\{X_n=j|X_0=i\}P\{X_0=i\}$$  或写作$$p_j(n)=\sum_{i=0}^\infty p_i(0)\,p_{ij}(n)$$注意到这里右侧的$\sum_{i=0}^\infty p_i(0)\,p_{ij}(n)$表示行向量$\mathbf{p}(0)$与 n步状态转移概率矩阵$\mathbf{P}(n)$的$j$列逐元素相乘，等式右边$p_j(0)$表示行向量$\mathbf{p}(n)$的第$j$个元素，故得$$\mathbf{p}(n)=\mathbf{p}(0)\mathbf{P}(n)$$
 
+
+
+
+
+## 主动学习
 
 
 ## 总结与展望
